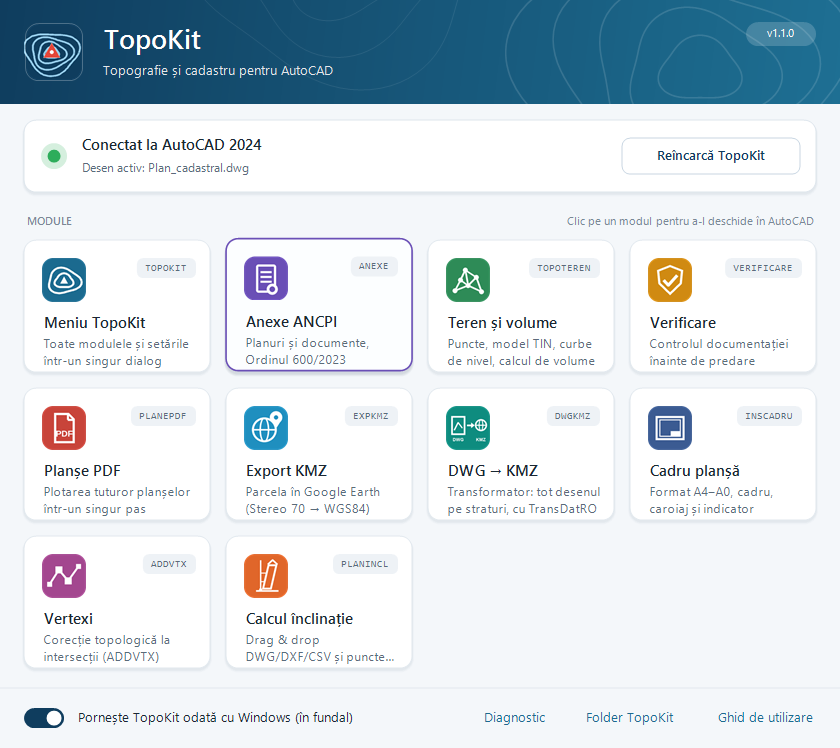
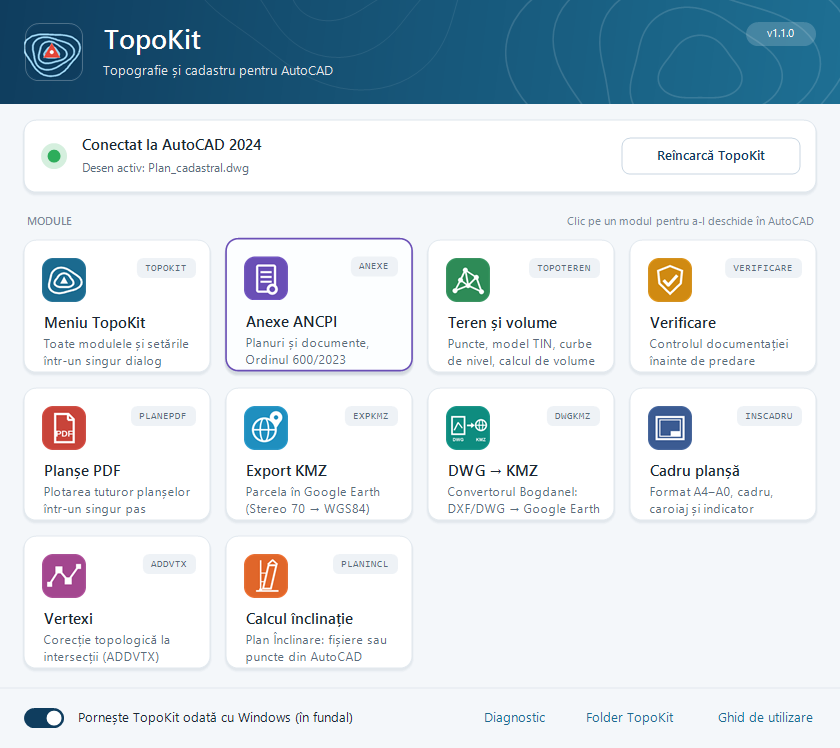
DWG -> KMZ opens the original Bogdanel converter
- DWGKMZ (TOPOKIT menu card, launcher card, tray menu) starts the original
  DXF/DWG -> KMZ converter Bogdanel; from AutoCAD it opens the current
  drawing (last saved version, with a warning for unsaved changes). Without
  the program installed, the in-AutoCAD export by layer is used.
- Installer: Bogdanel.exe (taken from --bogdanel, default
  E:\Munca\Bogdanel\Program) installed in Bogdanel\ with a Start menu
  shortcut and removed on uninstall.
- Card texts shortened so they fit; README and launcher screenshots updated.

The rebuilt dist/TopoKitSetup-1.1.0.exe (76.6 MB, contains Bogdanel.exe)
is not part of this commit.

Changed region(s): [[0.5262, 0.6457, 0.7119, 0.7072], [0.2786, 0.8302, 0.4643, 0.8917]]

diff --git a/installer/launcher/topokit.c b/installer/launcher/topokit.c
@@ -63,7 +63,7 @@ static const struct { const wchar_t *label, *cmd; } CMDS[] = {
     { L"Verificare documentație", L"VERIFICARE" },
     { L"Planșe PDF", L"PLANEPDF" },
     { L"Export KMZ (Google Earth)", L"EXPKMZ" },
-    { L"Transformator DWG → KMZ (tot desenul)", L"DWGKMZ" },
+    { L"Convertor DXF/DWG → KMZ (Bogdanel)", L"DWGKMZ" },
     { L"Inserare cadru planșă", L"INSCADRU" },
     { L"Adăugare vertexi (ADDVTX)", L"ADDVTX" },
     { L"Calcul înclinație (Plan Înclinare)", L"PLANINCL" },
@@ -1044,16 +1044,23 @@ void App_Action(int act, int arg)
     wchar_t f[MAX_PATH];
     switch (act) {
     case ACT_CMD:
-        if (arg >= 0 && arg < NCMDS && !wcscmp(CMDS[arg].cmd, L"PLANINCL")) {
-            /* programul Plan Inclinare ruleaza separat (nu are nevoie de AutoCAD) */
+        if (arg >= 0 && arg < NCMDS &&
+            (!wcscmp(CMDS[arg].cmd, L"PLANINCL") || !wcscmp(CMDS[arg].cmd, L"DWGKMZ"))) {
+            /* programele separate (nu au nevoie de AutoCAD): Plan Inclinare si
+             * convertorul DXF/DWG -> KMZ Bogdanel, instalate langa TopoKit.exe */
+            BOOL pi = !wcscmp(CMDS[arg].cmd, L"PLANINCL");
+            const wchar_t *name = pi ? L"Plan Înclinare" : L"Convertorul DXF/DWG - KMZ";
             GetModuleFileNameW(NULL, f, MAX_PATH);
-            lstrcpyW(wcsrchr(f, L'\\') + 1, L"PlanInclinare\\PlanInclinare.exe");
+            lstrcpyW(wcsrchr(f, L'\\') + 1, pi ? L"PlanInclinare\\PlanInclinare.exe" : L"Bogdanel\\Bogdanel.exe");
             if (PathFileExistsW(f) && (INT_PTR)ShellExecuteW(NULL, L"open", f, NULL, NULL, SW_SHOWNORMAL) > 32) {
-                Log(L"Pornit Plan Inclinare: %ls", f);
-                Note(UI_NOTE_OK, L"Plan Înclinare a fost pornit");
-            } else {
-                Log(L"Plan Inclinare lipseste: %ls", f);
+                Log(L"Pornit: %ls", f);
+                Note(UI_NOTE_OK, L"%ls a fost pornit", name);
+            } else if (pi) {
+                Log(L"Lipseste: %ls", f);
                 Note(UI_NOTE_ERR, L"Nu găsesc PlanInclinare.exe – reinstalați TopoKit");
+            } else {
+                Log(L"Lipseste: %ls - exportul DWGKMZ din AutoCAD", f);
+                RunCommand(CMDS[arg].cmd, FALSE);
             }
         } else if (arg >= 0 && arg < NCMDS) {
             RunCommand(CMDS[arg].cmd, FALSE);

diff --git a/tools/build_installer.py b/tools/build_installer.py
@@ -13,10 +13,11 @@ Pasi:
        bundle/TopoKit.bundle/PackageContents.xml   (versiunea completata)
        bundle/TopoKit.bundle/Contents/             *.lsp, *.dcl, grila .gsb, anexe/, README
        app/                                        TopoKit.exe, README.html, docs/,
-                                                   PlanInclinare/ (PlanInclinare.exe, PyInstaller)
+                                                   PlanInclinare/ (PlanInclinare.exe, PyInstaller),
+                                                   Bogdanel/ (convertorul DXF/DWG -> KMZ, --bogdanel)
   3. ruleaza makensis installer/TopoKit.nsi -> dist/TopoKitSetup-<versiune>.exe
 """
-import argparse, html, pathlib, re, shutil, subprocess, sys
+import argparse, html, os, pathlib, re, shutil, subprocess, sys
 
 ROOT = pathlib.Path(__file__).resolve().parent.parent
 INST = ROOT / "installer"
@@ -62,6 +63,8 @@ def main():
     ap = argparse.ArgumentParser()
     ap.add_argument("--version", default=(INST / "VERSION").read_text().strip())
     ap.add_argument("--out", default=str(ROOT / "dist"))
+    ap.add_argument("--bogdanel", default=os.environ.get("TOPOKIT_BOGDANEL", r"E:\Munca\Bogdanel\Program"),
+                    help="folderul cu Bogdanel.exe (convertorul DXF/DWG -> KMZ), inclus in instalator")
     a = ap.parse_args()
     if not re.fullmatch(r"\d+\.\d+\.\d+", a.version):
         sys.exit("Versiunea trebuie sa fie de forma X.Y.Z")
@@ -113,6 +116,17 @@ def main():
     shutil.copy2(build / "pi_dist" / "PlanInclinare.exe", pi / "PlanInclinare.exe")
     for f in ("PlanInclinareCogo.dll", "exemplu_siloz.csv"):
         shutil.copy2(ROOT / "inclinare" / f, pi / f)
+
+    # 2c. convertorul DXF/DWG -> KMZ "Bogdanel" (programul original, compilat separat)
+    bog = pathlib.Path(a.bogdanel)
+    if (bog / "Bogdanel.exe").is_file():
+        (app / "Bogdanel").mkdir()
+        for f in ("Bogdanel.exe", "Instructiuni Bogdanel.html"):
+            if (bog / f).is_file():
+                shutil.copy2(bog / f, app / "Bogdanel" / f)
+    else:
+        print(f"ATENTIE: {bog / 'Bogdanel.exe'} lipseste - instalatorul nu contine convertorul Bogdanel "
+              "(cardul DWG -> KMZ foloseste exportul din AutoCAD)")
 
     # 3. instalatorul
     out = pathlib.Path(a.out)

diff --git a/installer/launcher/ui.c b/installer/launcher/ui.c
@@ -41,10 +41,10 @@ static const struct { const wchar_t *title, *desc, *cmd; ARGB accent; } TILES[] 
     { L"Verificare", L"Controlul documentației înainte de predare", L"VERIFICARE", 0xFFD08A12 },
     { L"Planșe PDF", L"Plotarea tuturor planșelor într-un singur pas", L"PLANEPDF", 0xFFC8443A },
     { L"Export KMZ", L"Parcela în Google Earth (Stereo 70 → WGS84)", L"EXPKMZ", 0xFF1F8FBF },
-    { L"DWG → KMZ", L"Transformator: tot desenul pe straturi, cu TransDatRO", L"DWGKMZ", 0xFF0E8C7F },
+    { L"DWG → KMZ", L"Convertorul Bogdanel: DXF/DWG → Google Earth", L"DWGKMZ", 0xFF0E8C7F },
     { L"Cadru planșă", L"Format A4–A0, cadru, caroiaj și indicator", L"INSCADRU", 0xFF3B5B92 },
     { L"Vertexi", L"Corecție topologică la intersecții (ADDVTX)", L"ADDVTX", 0xFFA3478F },
-    { L"Calcul înclinație", L"Drag & drop DWG/DXF/CSV și puncte din AutoCAD", L"PLANINCL", 0xFFE0662A },
+    { L"Calcul înclinație", L"Plan Înclinare: fișiere sau puncte din AutoCAD", L"PLANINCL", 0xFFE0662A },
 };
 #define NTILES 10
 

diff --git a/README.md b/README.md
@@ -9,7 +9,7 @@ Suită modulară AutoLISP + DCL pentru AutoCAD (în stilul TopoLT):
 | `EXPKMZ` | Export în KMZ/KML pentru Google Earth Pro: o parcelă sau mai multe obiecte pe straturi, cu transformarea oficială **TransDatRO** (Stereo 70 → ETRS89, ~1 mm) |
 | `INSCADRU` | Format A4…A0 (portrait/landscape), cadru și indicator la scară |
 | `ANEXE` | Generatorul de anexe pentru **Ordinul ANCPI nr. 600/2023**: PAD, dezlipire/alipire, releveu și documentele Word ([detalii](#4-generator-de-anexe--ordinul-ancpi-nr-6002023-anexe)) |
-| `DWGKMZ` | **Transformator DWG → KMZ**: tot desenul (straturile vizibile) sau obiectele selectate, pe categorii și straturi, cu TransDatRO |
+| `DWGKMZ` | **Transformator DWG → KMZ**: deschide convertorul original **Bogdanel** (DXF/DWG → KMZ, TransDatRO) cu desenul curent; fără program, exportă desenul pe straturi direct din AutoCAD |
 | `PLANINCL` | Programul **Plan Înclinare** (calcul înclinație), exact ca înainte: drag & drop CSV/TXT/DWG/DXF, previzualizare, export DXF/DWG, plus punctele din desenul deschis (`PLANINCLSEL`) |
 | `INCLINARE` | Planul de înclinare / verticalitate (silozuri, stâlpi, coșuri, turnuri) din puncte măsurate pe rânduri, pe planșă A4…A0 cu cartuș ([detalii](#6-calcul-înclinație--programul-plan-înclinare-planincl-și-inclinare)) |
 | `TOPOTEREN` | Modulul de teren: import puncte și desenare pe coduri, model TIN, curbe de nivel, volume, raster georeferențiat, KML/KMZ, tabele și legende ([detalii](#5-teren--puncte-model-3d-curbe-de-nivel-volume-topoteren)) |
@@ -25,7 +25,8 @@ Suită modulară AutoLISP + DCL pentru AutoCAD (în stilul TopoLT):
   fiecare modul – pictograma colorată (aceleași culori și simboluri ca în fereastra TopoKit), titlul,
   comanda AutoCAD și o descriere. **Clic pe pictogramă** deschide modulul.
 - Cele 10 module: Setări module, Anexe ANCPI, Teren și volume, Verificare, Planșe PDF, Export KMZ,
-  DWG → KMZ, Cadru planșă, Vertexi și Calcul înclinație.
+  DWG → KMZ, Cadru planșă, Vertexi și Calcul înclinație. „DWG → KMZ” și „Calcul înclinație” pornesc
+  programele originale Bogdanel și Plan Înclinare.
 - **Setări module…** deschide opțiunile corecției topologice, ale exportului KMZ și ale formatului de
   planșă, cu pictogramele lor și previzualizarea planșei (formatul, orientarea, cadrul, indicatorul și
   caroiajul se redesenează la orice modificare, ca și în dialogul `INSCADRU`):
@@ -468,6 +469,11 @@ cartuș, export DXF și DWG, setări salvate. Se instalează ca `PlanInclinare.e
 Nou: butonul **„Puncte din AutoCAD…”** – TopoKit trimite comanda `PLANINCLSEL` în desenul deschis,
 selectați punctele (puncte COGO, puncte AutoCAD sau blocuri) și apăsați Enter; programul le preia singur.
 Codul punctului este descrierea (COGO) sau stratul.
+
+**Convertorul DXF/DWG → KMZ „Bogdanel”** (cardul „DWG → KMZ”, comanda `DWGKMZ`, meniul Start → TopoKit →
+Convertor DXF-DWG - KMZ) este programul original, inclus neschimbat (`Bogdanel\Bogdanel.exe`): din AutoCAD
+se deschide direct cu desenul curent (ultima versiune salvată). La compilarea instalatorului se ia din
+folderul dat cu `--bogdanel` (implicit `E:\Munca\Bogdanel\Program`).
 
 Comanda `INCLINARE` desenează același plan direct în desenul curent, fără programul separat:
 
